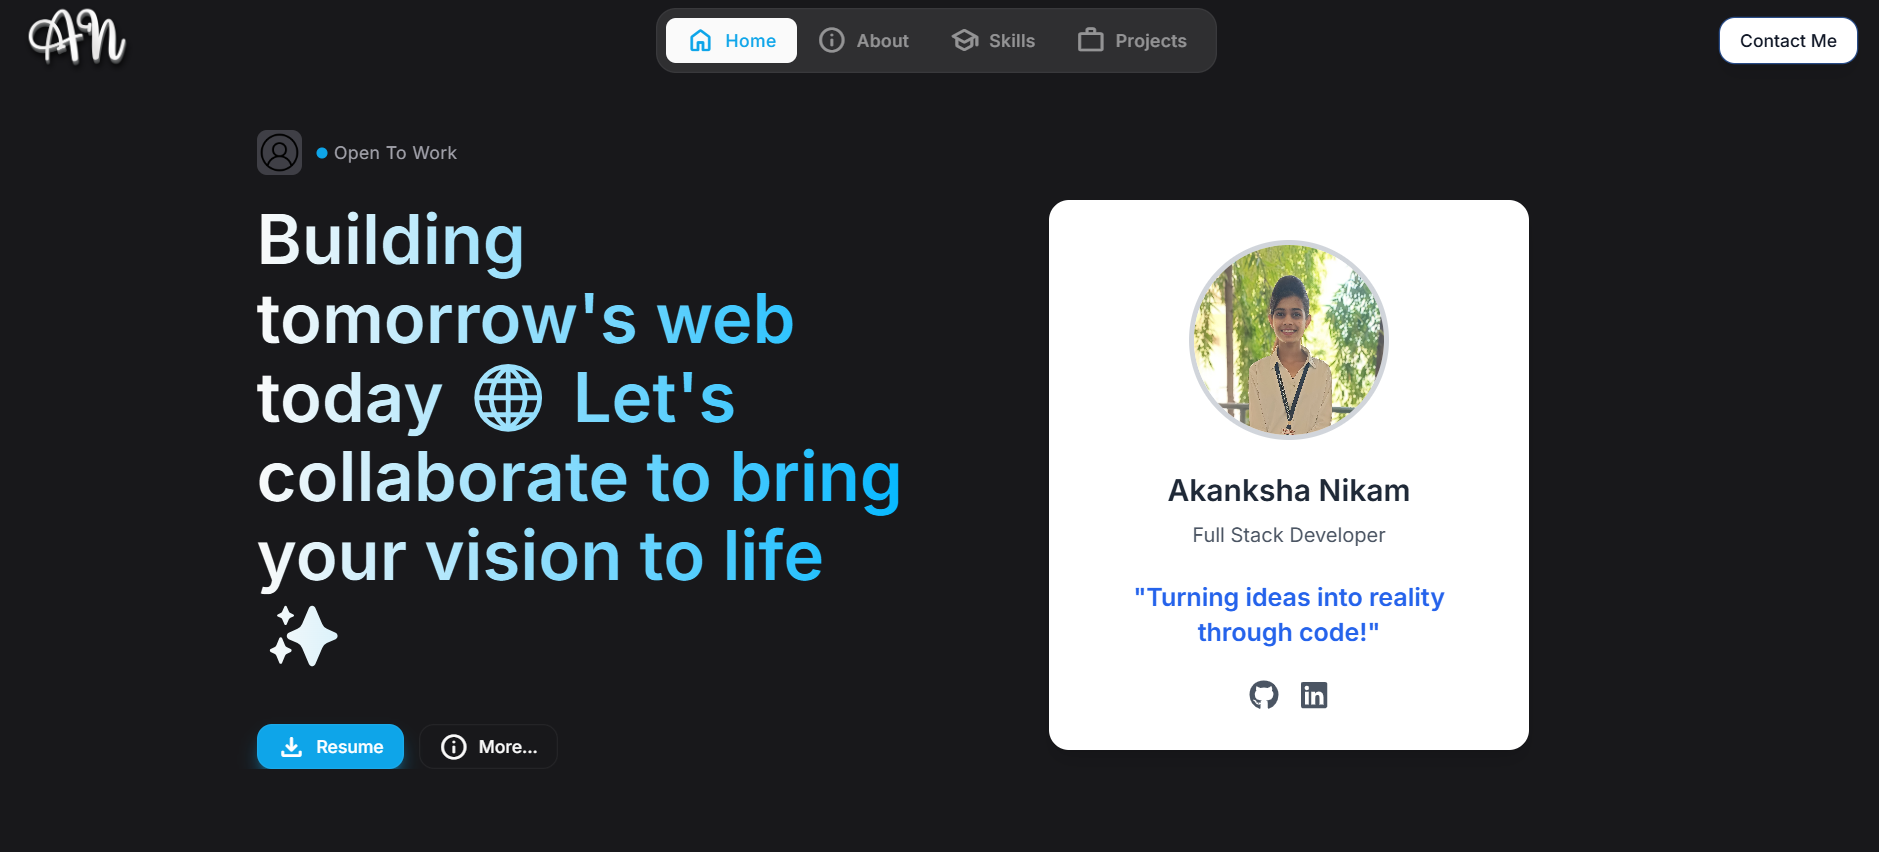
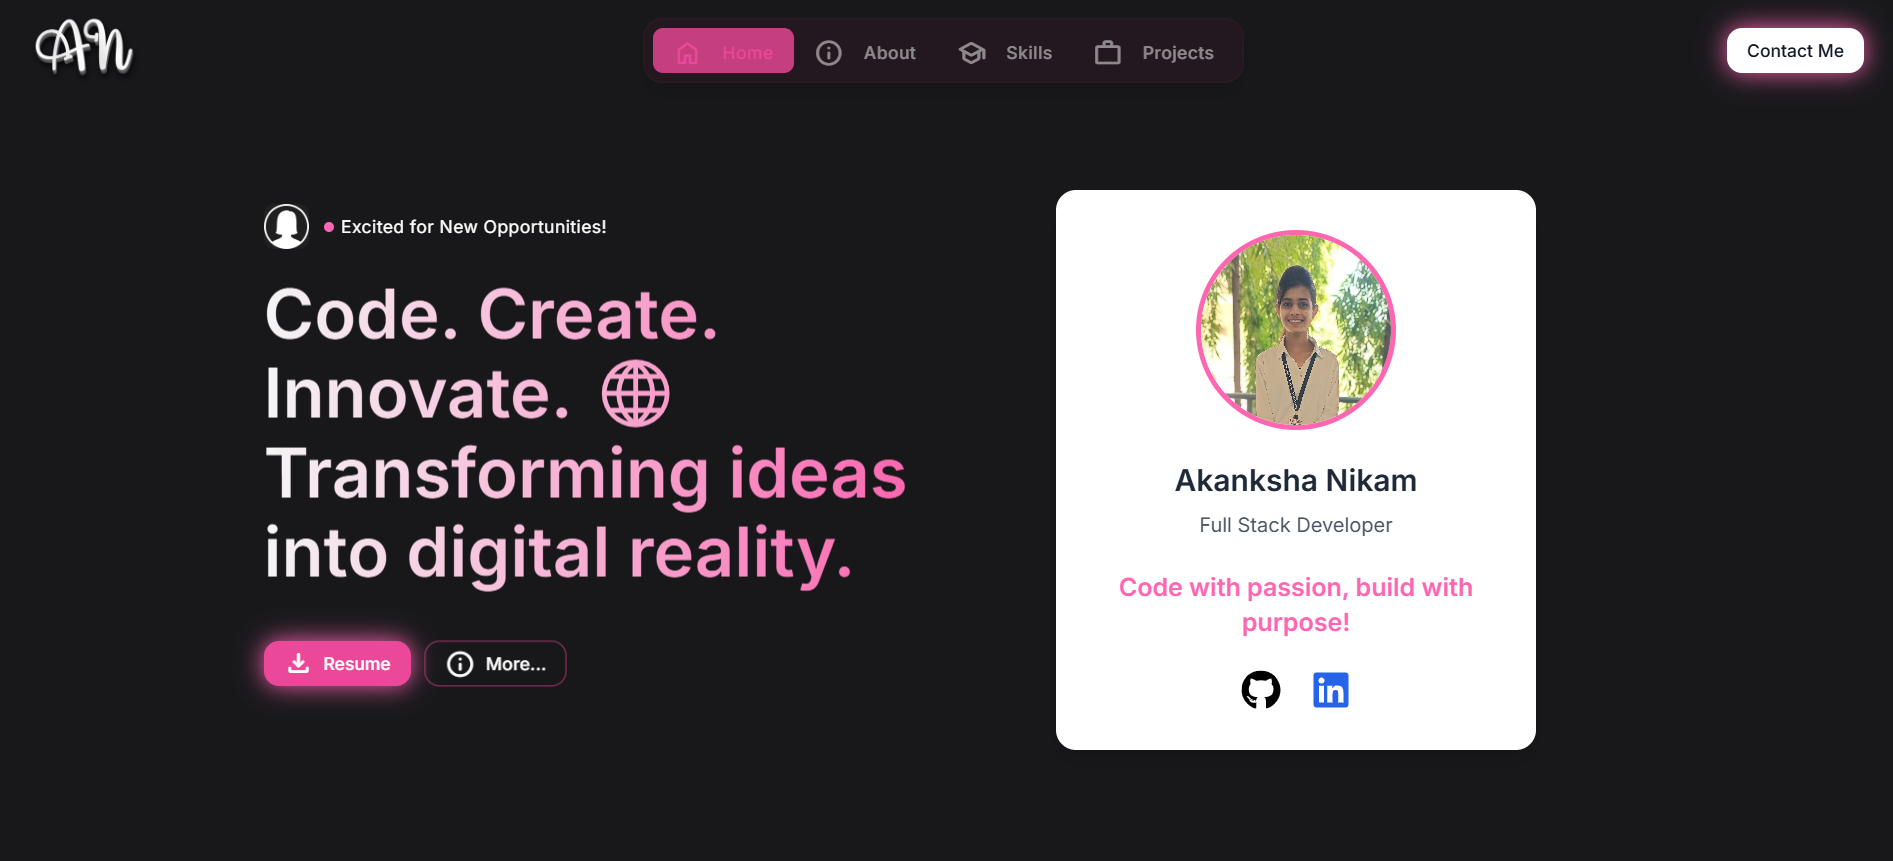
Updated Navbar

diff --git a/src/Components/Navbar.jsx b/src/Components/Navbar.jsx
@@ -7,10 +7,12 @@ const Navbar = ({ navOpen }) => {
   const activeBox = useRef();
 
   const initActiveBox = () => {
-    activeBox.current.style.top = lastActiveLink.current.offsetTop + 'px';
-    activeBox.current.style.left = lastActiveLink.current.offsetLeft + 'px';
-    activeBox.current.style.width = lastActiveLink.current.offsetWidth + 'px';
-    activeBox.current.style.height = lastActiveLink.current.offsetHeight + 'px';
+    if (lastActiveLink.current) {
+      activeBox.current.style.top = lastActiveLink.current.offsetTop + 'px';
+      activeBox.current.style.left = lastActiveLink.current.offsetLeft + 'px';
+      activeBox.current.style.width = lastActiveLink.current.offsetWidth + 'px';
+      activeBox.current.style.height = lastActiveLink.current.offsetHeight + 'px';
+    }
   };
 
   useEffect(() => {
@@ -25,11 +27,7 @@ const Navbar = ({ navOpen }) => {
     lastActiveLink.current?.classList.remove('active');
     event.target.closest('a').classList.add('active');
     lastActiveLink.current = event.target.closest('a');
-
-    activeBox.current.style.top = lastActiveLink.current.offsetTop + 'px';
-    activeBox.current.style.left = lastActiveLink.current.offsetLeft + 'px';
-    activeBox.current.style.width = lastActiveLink.current.offsetWidth + 'px';
-    activeBox.current.style.height = lastActiveLink.current.offsetHeight + 'px';
+    initActiveBox();
   };
 
   const navItems = [
@@ -42,7 +40,7 @@ const Navbar = ({ navOpen }) => {
 
   return (
     <motion.nav
-      className={'navbar ' + (navOpen ? 'active' : '') + ' font-inter'}
+      className={`navbar ${navOpen ? 'active' : ''} font-inter bg-[#1a1a1a]/80 backdrop-blur-md p-3 rounded-lg shadow-lg`}
       initial={{ opacity: 0, y: -20 }}
       animate={{ opacity: 1, y: 0 }}
       transition={{ duration: 0.6, ease: 'easeOut' }}
@@ -52,18 +50,18 @@ const Navbar = ({ navOpen }) => {
           href={link}
           key={key}
           ref={ref}
-          className={`${className} text-[#ff66b2] hover:text-white transition-colors duration-300`}
+          className={`${className} text-white hover:text-[#ff66b2] transition-all duration-300 px-4 py-2 rounded-lg`}
           onClick={activeCurrentLink}
           initial={{ opacity: 0, x: -10 }}
           animate={{ opacity: 1, x: 0 }}
           transition={{ duration: 0.5, ease: 'easeOut', delay: key * 0.1 }}
         >
-          <span className="material-symbols-rounded">{icon}</span>
+          <span className="material-symbols-rounded mr-2">{icon}</span>
           {label}
         </motion.a>
       ))}
       <motion.div
-        className="active-box bg-[#ff66b2]"
+        className="active-box bg-[#ff66b2] rounded-lg opacity-80"
         ref={activeBox}
         layout
         transition={{ type: 'spring', stiffness: 200, damping: 20 }}
